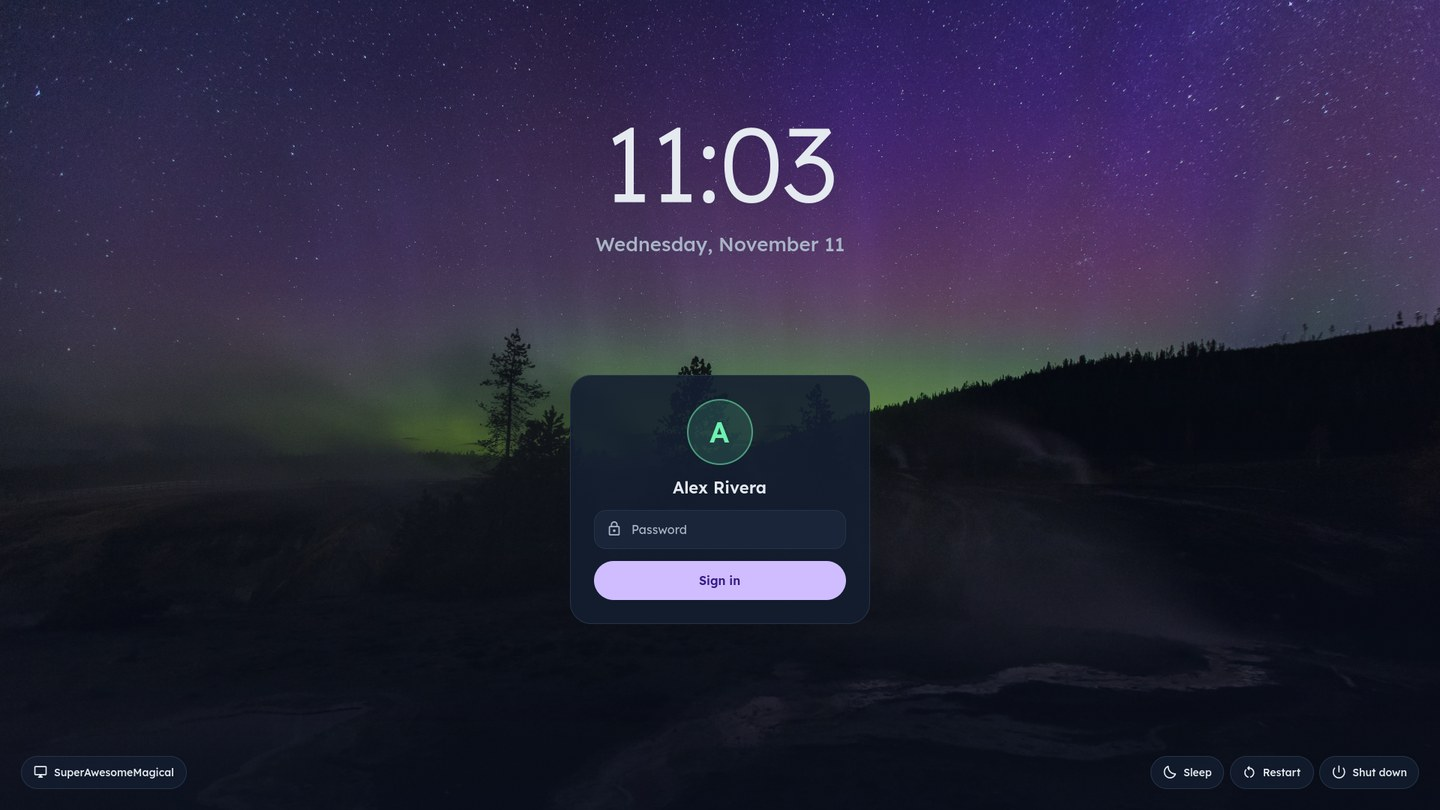
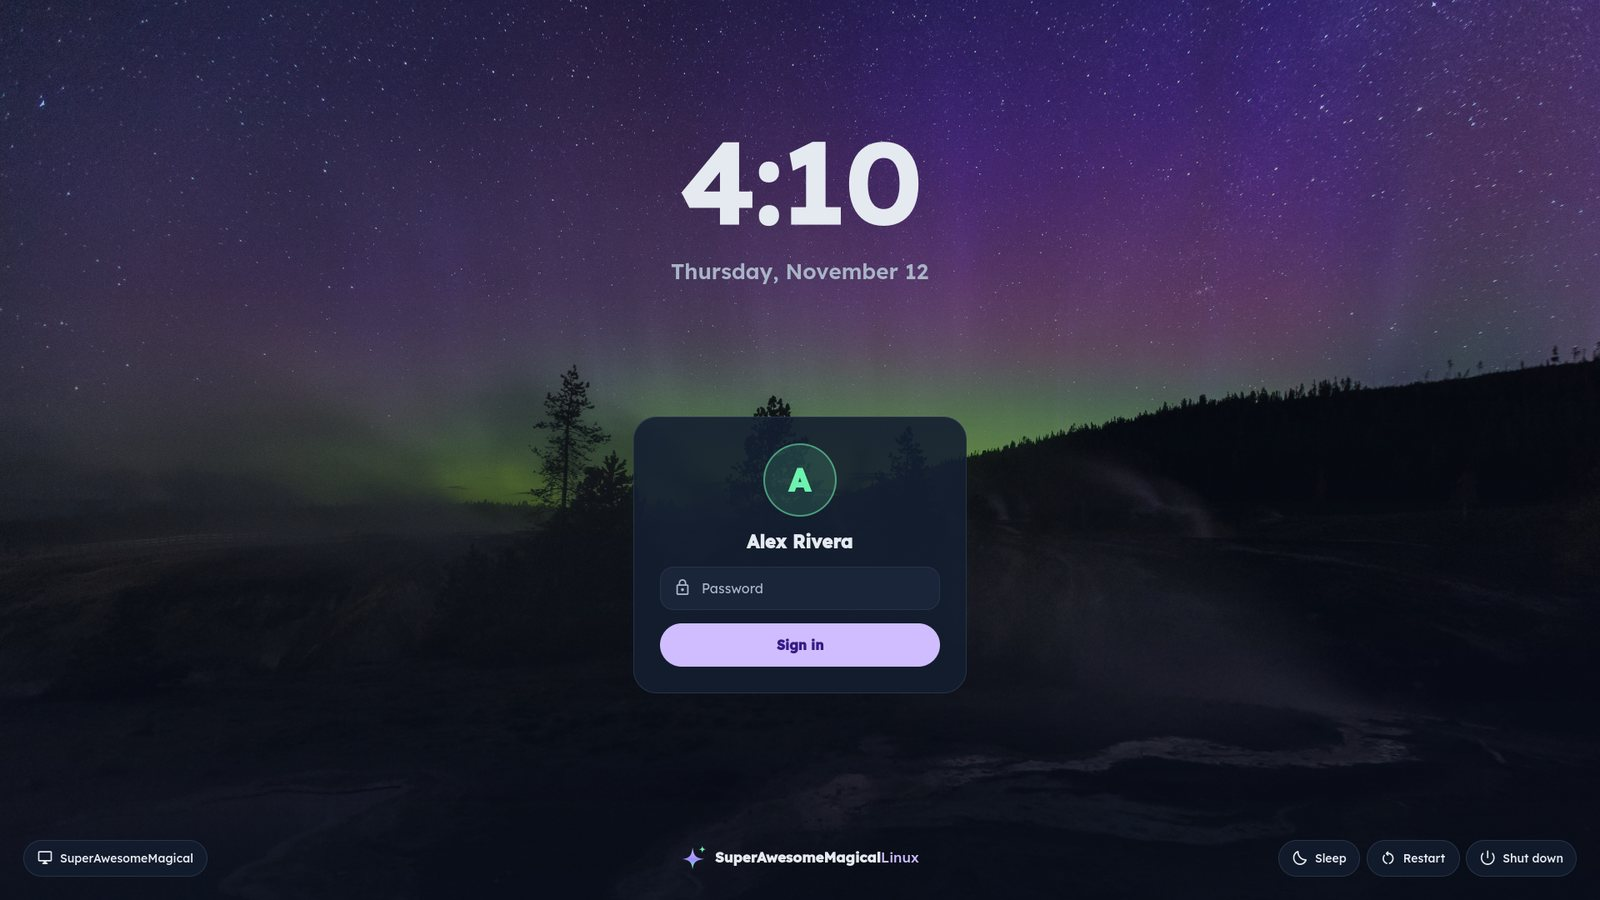
Show the new desktop in the README, and fix the idle player's lines
The dashboard's player said "Unknown artist" with nothing playing, and its hint was cut off; it now
reads "Nothing playing" and "Music shows up here". The README gains screenshots of the dashboard,
lock screen and Settings → Updates, and a fresh one of the bolder sign-in screen.

Claude-Session: https://claude.ai/code/session_01DK8DfowDaUgCWTv3wKXh9r

diff --git a/shell/modules/dashboard/dash/Media.qml b/shell/modules/dashboard/dash/Media.qml
@@ -93,7 +93,7 @@ Item {
 
         animate: true
         horizontalAlignment: Text.AlignHCenter
-        text: (Players.active?.trackAlbum ?? Tr.tr("Your music shows up here")) || Tr.tr("Unknown album")
+        text: Players.active ? (Players.active.trackAlbum || Tr.tr("Unknown album")) : Tr.tr("Music shows up here")
         color: Colours.palette.m3outline
         font: Tokens.font.body.small
 
@@ -110,7 +110,7 @@ Item {
 
         animate: true
         horizontalAlignment: Text.AlignHCenter
-        text: (Players.active?.trackArtist ?? "") || Tr.tr("Unknown artist")
+        text: Players.active ? (Players.active.trackArtist || Tr.tr("Unknown artist")) : ""
         color: Colours.palette.m3secondary
 
         width: parent.implicitWidth - Tokens.padding.extraLargeIncreased

diff --git a/README.md b/README.md
@@ -4,7 +4,12 @@ The SuperAwesomeMagical ecosystem's operating system: Fedora, image-based, with 
 same look as the apps: Lexend everywhere, the brand's aurora purple and green over cool slate, soft
 rounded cards.
 
-![The sign-in screen: a large Lexend clock and a rounded slate card over a photo of purple and green northern lights](docs/screenshots/sign-in.jpg)
+![The sign-in screen: a large bold Lexend clock and a rounded slate card over a photo of purple and green northern lights, with the SuperAwesomeMagical sparkles and name at the bottom](docs/screenshots/sign-in.jpg)
+
+| | |
+|---|---|
+| ![The dashboard over the aurora wallpaper: weather, a "Hi, Sam!" greeting, the clock, calendar, system meters and the music player](docs/screenshots/dashboard.jpg) | ![The lock screen: a big purple and green clock, weather, a "Good evening" card with the sparkles, the music card and notifications](docs/screenshots/lock.jpg) |
+| ![Settings, on the Updates page: "Update ready", the installed version, and buttons to restart, check now or go back](docs/screenshots/settings-updates.jpg) | |
 
 - **Stable.** The whole OS is one tested image. Updates download in the background and apply on
   the next restart, and if one ever misbehaves the previous version is one command away
